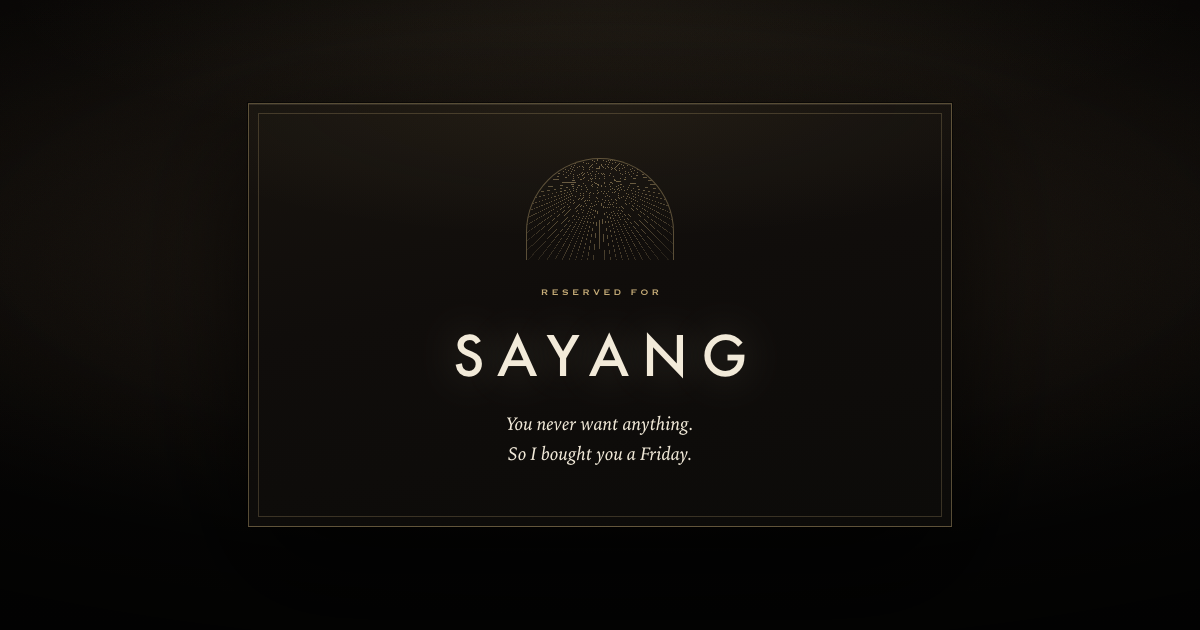
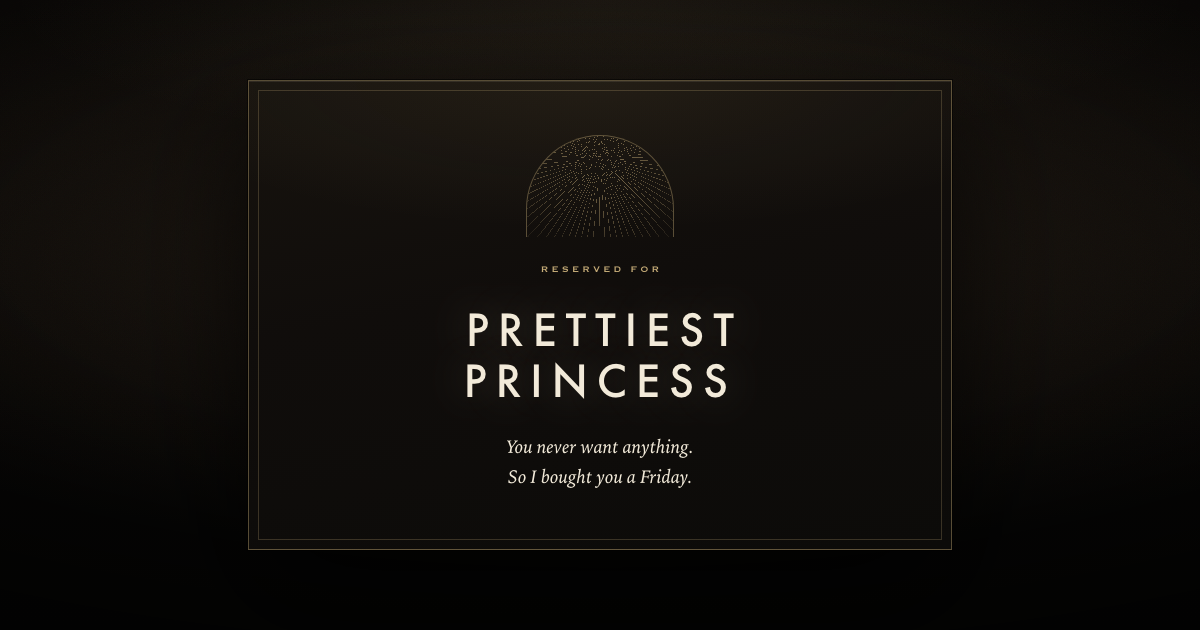
Rename the guest and drop the em dash
Two long words need to stack, so the display size and tracking came down
to keep the wider one inside the frame.

diff --git a/index.html b/index.html
@@ -174,10 +174,11 @@
   .name{
     font-family: var(--deco);
     font-weight: 400;
-    font-size: clamp(2rem, 10.5vw, 3.4rem);
-    line-height: 1.05;
-    letter-spacing: 0.24em;
-    text-indent: 0.24em;
+    /* two long words, stacked — sized so the wider one clears the frame */
+    font-size: clamp(1.6rem, 8vw, 2.7rem);
+    line-height: 1.2;
+    letter-spacing: 0.2em;
+    text-indent: 0.2em;
     text-transform: uppercase;
     color: var(--ivory);
     margin: 0;
@@ -418,7 +419,7 @@
 
       <p class="eng">Reserved for</p>
 
-      <h1 class="name">Sayang</h1>
+      <h1 class="name">Prettiest<br>Princess</h1>
 
       <p class="lede">You never want anything. So I bought you a Friday.</p>
 
@@ -463,7 +464,7 @@
       <div class="div" aria-hidden="true"><i></i></div>
 
       <div class="note">
-        <p>Every time I ask what you want, sayang, you say you don't need anything — which is a deeply annoying quality in someone I'm trying to spoil.</p>
+        <p>Every time I ask what you want, sayang, you say you don't need anything, which is a deeply annoying quality in someone I'm trying to spoil.</p>
         <p>So I stopped asking. The fourth is booked, the table is ours, and your only job is to wear the dress and let it happen.</p>
         <p class="eng sig">Yours — Dudut</p>
       </div>

diff --git a/source.html b/source.html
@@ -147,10 +147,11 @@
   .name{
     font-family: var(--deco);
     font-weight: 400;
-    font-size: clamp(2rem, 10.5vw, 3.4rem);
-    line-height: 1.05;
-    letter-spacing: 0.24em;
-    text-indent: 0.24em;
+    /* two long words, stacked — sized so the wider one clears the frame */
+    font-size: clamp(1.6rem, 8vw, 2.7rem);
+    line-height: 1.2;
+    letter-spacing: 0.2em;
+    text-indent: 0.2em;
     text-transform: uppercase;
     color: var(--ivory);
     margin: 0;
@@ -391,7 +392,7 @@
 
       <p class="eng">Reserved for</p>
 
-      <h1 class="name">Sayang</h1>
+      <h1 class="name">Prettiest<br>Princess</h1>
 
       <p class="lede">You never want anything. So I bought you a Friday.</p>
 
@@ -436,7 +437,7 @@
       <div class="div" aria-hidden="true"><i></i></div>
 
       <div class="note">
-        <p>Every time I ask what you want, sayang, you say you don't need anything — which is a deeply annoying quality in someone I'm trying to spoil.</p>
+        <p>Every time I ask what you want, sayang, you say you don't need anything, which is a deeply annoying quality in someone I'm trying to spoil.</p>
         <p>So I stopped asking. The fourth is booked, the table is ours, and your only job is to wear the dress and let it happen.</p>
         <p class="eng sig">Yours — Dudut</p>
       </div>
